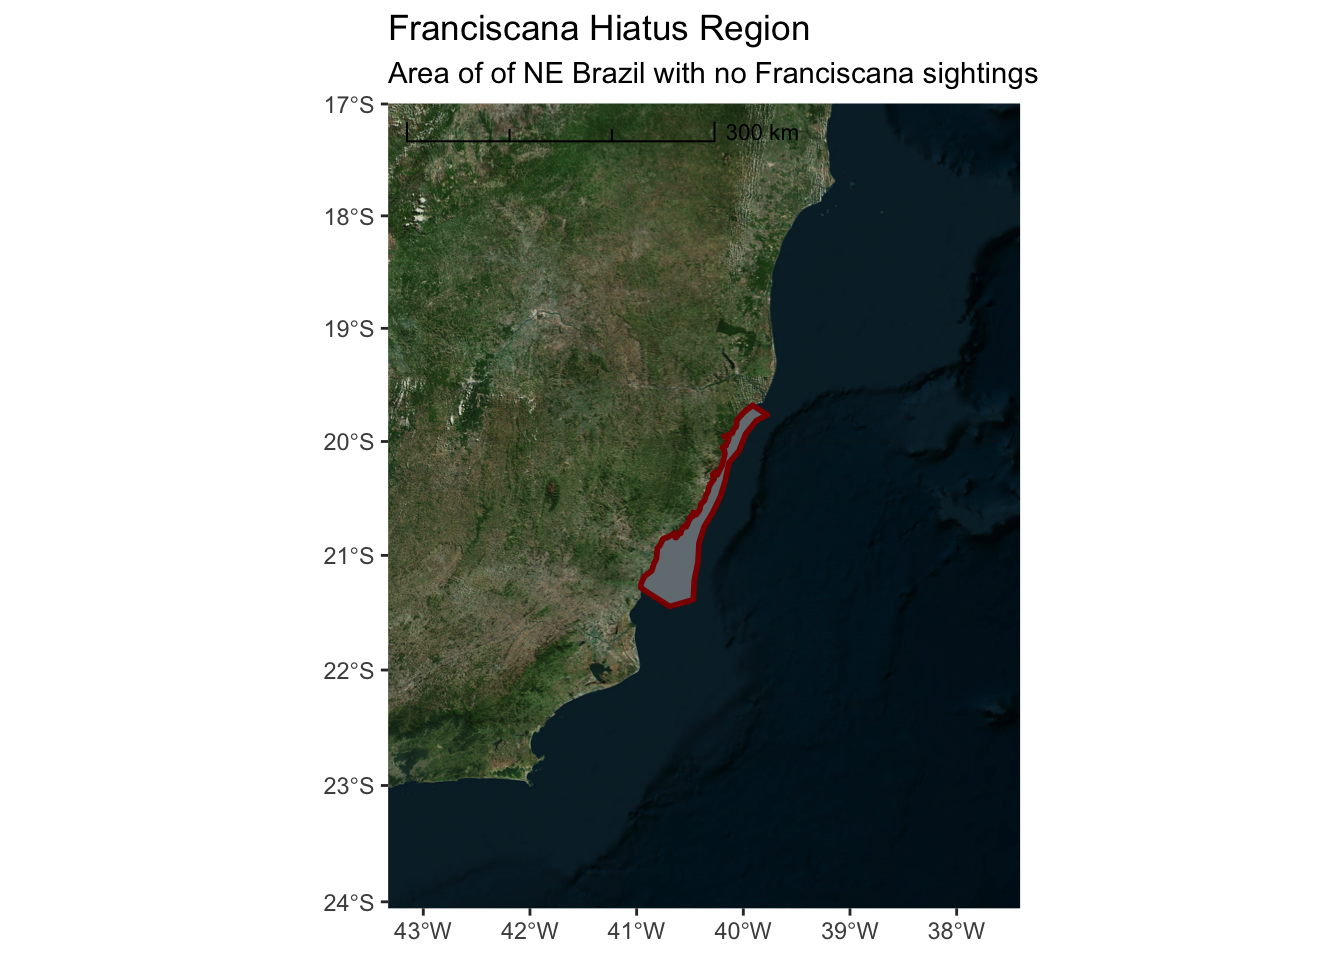
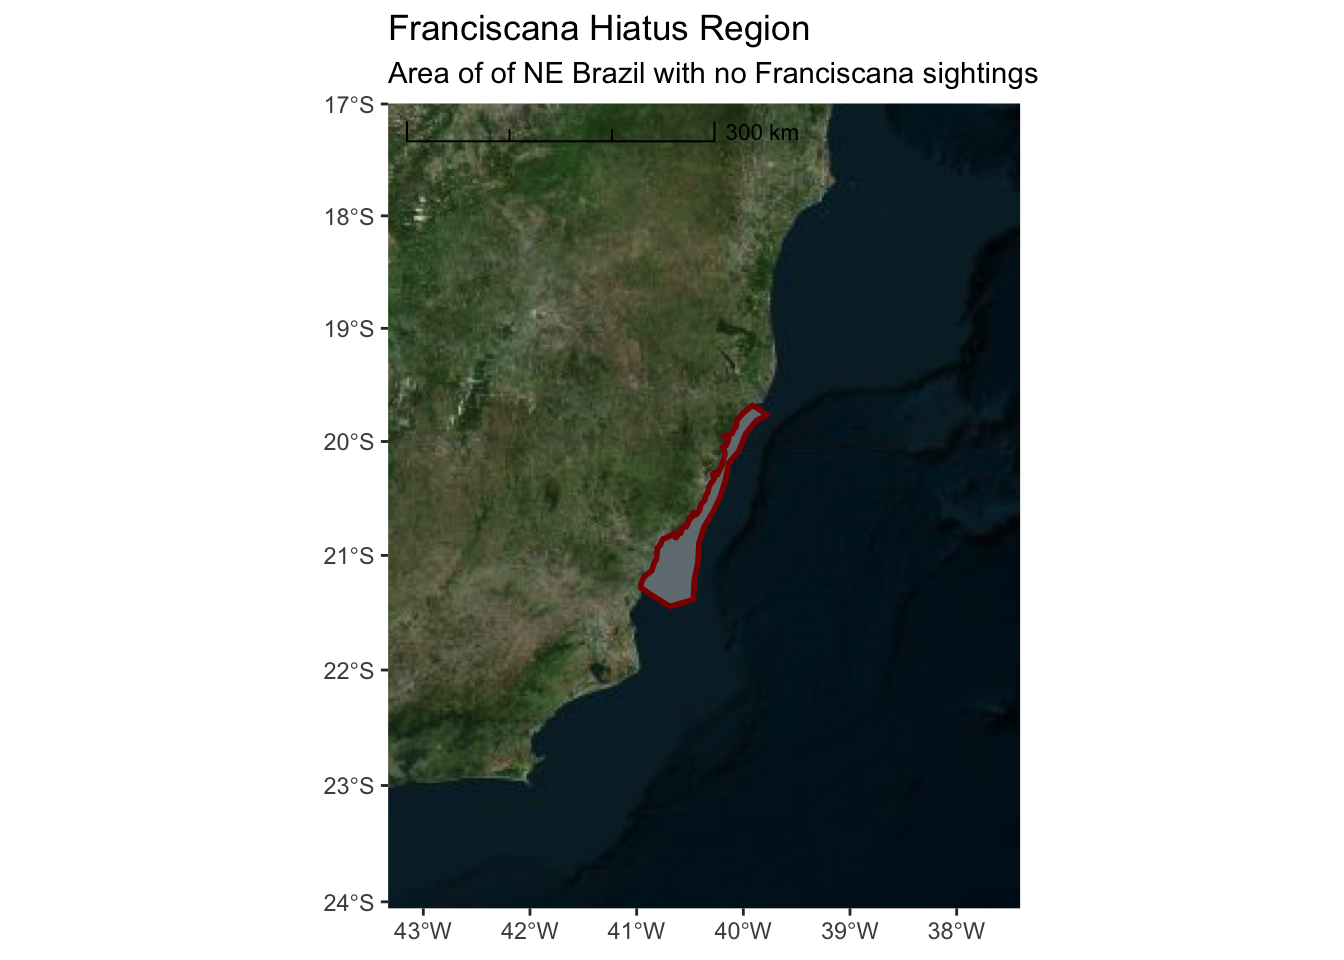
CHANGE ZOOM FOR BING MAP

diff --git a/docs/exercise-1-loading-spatial-data.html b/docs/exercise-1-loading-spatial-data.html
@@ -328,7 +328,7 @@ can explore. Here are some additional tiles that you might prefer</p>
 <div id="microsoft-bing-aerial-imagery" class="section level3">
 <h3><span class="header-section-number">3.2.2</span> Microsoft Bing Aerial Imagery</h3>
 <div class="sourceCode" id="cb26"><pre class="sourceCode r"><code class="sourceCode r"><a class="sourceLine" id="cb26-1" data-line-number="1"><span class="kw">ggplot</span>() <span class="op">+</span></a>
-<a class="sourceLine" id="cb26-2" data-line-number="2"><span class="st">  </span><span class="kw">annotation_map_tile</span>(<span class="dt">type =</span> <span class="st">&quot;http://ecn.t3.tiles.virtualearth.net/tiles/a${q}.jpeg?g=1&quot;</span>, <span class="dt">zoomin =</span> <span class="dv">1</span>, <span class="dt">progress =</span> <span class="st">&quot;none&quot;</span>) <span class="op">+</span></a>
+<a class="sourceLine" id="cb26-2" data-line-number="2"><span class="st">  </span><span class="kw">annotation_map_tile</span>(<span class="dt">type =</span> <span class="st">&quot;http://ecn.t3.tiles.virtualearth.net/tiles/a${q}.jpeg?g=1&quot;</span>,<span class="dt">progress =</span> <span class="st">&quot;none&quot;</span>) <span class="op">+</span></a>
 <a class="sourceLine" id="cb26-3" data-line-number="3"><span class="st">  </span><span class="kw">layer_spatial</span>(hiatus, <span class="dt">col =</span> <span class="st">&quot;dark red&quot;</span>, <span class="dt">alpha =</span> <span class="fl">0.4</span>, <span class="dt">size =</span> <span class="dv">1</span>) <span class="op">+</span></a>
 <a class="sourceLine" id="cb26-4" data-line-number="4"><span class="st">  </span><span class="kw">scale_y_continuous</span>(<span class="dt">expand =</span> <span class="kw">c</span>(<span class="fl">1.5</span>,<span class="fl">1.5</span>)) <span class="op">+</span></a>
 <a class="sourceLine" id="cb26-5" data-line-number="5"><span class="st">  </span><span class="kw">scale_x_continuous</span>(<span class="dt">expand =</span> <span class="kw">c</span>(<span class="dv">2</span>,<span class="dv">2</span>)) <span class="op">+</span></a>
